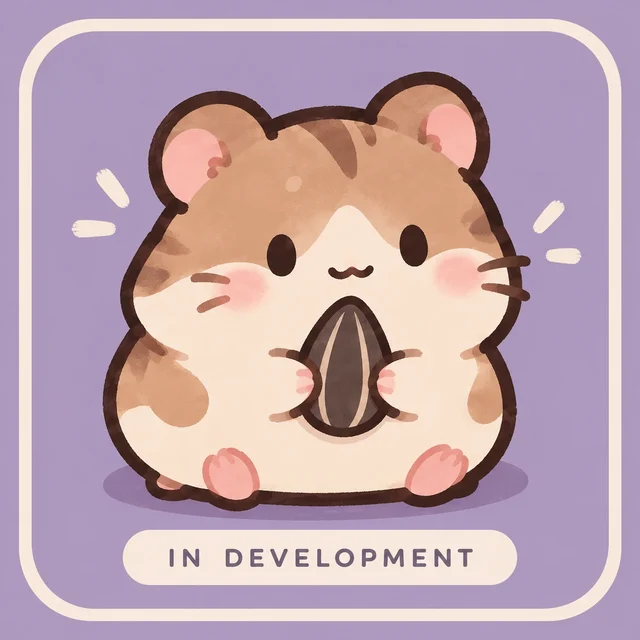
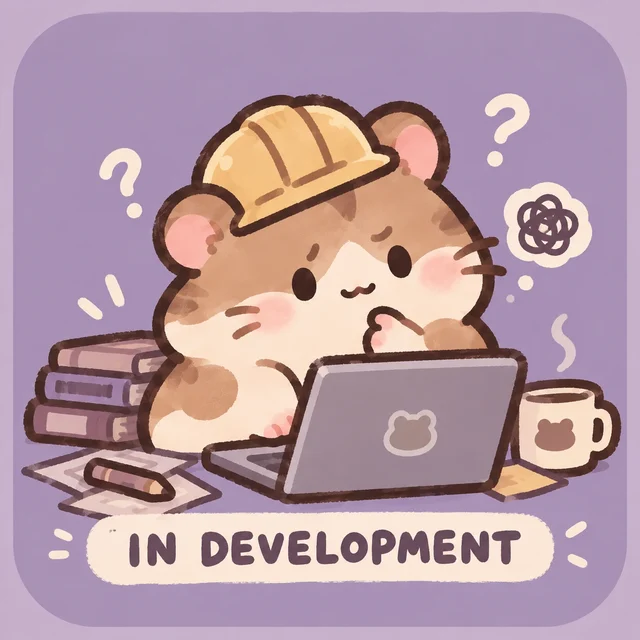
Swap project card image to the hard-hat hamster
Claude-Session: https://claude.ai/code/session_01Bhe3PGmnQ2ASdoZrWdnT6w

diff --git a/index.html b/index.html
@@ -216,7 +216,7 @@
       <section aria-labelledby="dev-h">
         <h3 id="dev-h" class="font-mono text-xl font-bold uppercase tracking-tight text-ink">development</h3>
         <article class="mt-4 grid items-center gap-5 sm:grid-cols-[11rem_1fr]">
-          <img src="assets/hamster.webp" width="640" height="640" alt="a cute hamster holding a sunflower seed, with an in development label" class="w-full max-w-[11rem] justify-self-center rounded-2xl border-2 border-violet-200 sm:max-w-none" loading="lazy" />
+          <img src="assets/hamster.webp" width="640" height="640" alt="a cute hamster wearing a hard hat and working on a laptop, with an in development label" class="w-full max-w-[11rem] justify-self-center rounded-2xl border-2 border-violet-200 sm:max-w-none" loading="lazy" />
           <div class="text-center sm:text-left">
             <h4 class="text-2xl font-bold text-violet-500">a little hamster project</h4>
             <p class="mt-2">something cozy i'm still working on. more soon!</p>
